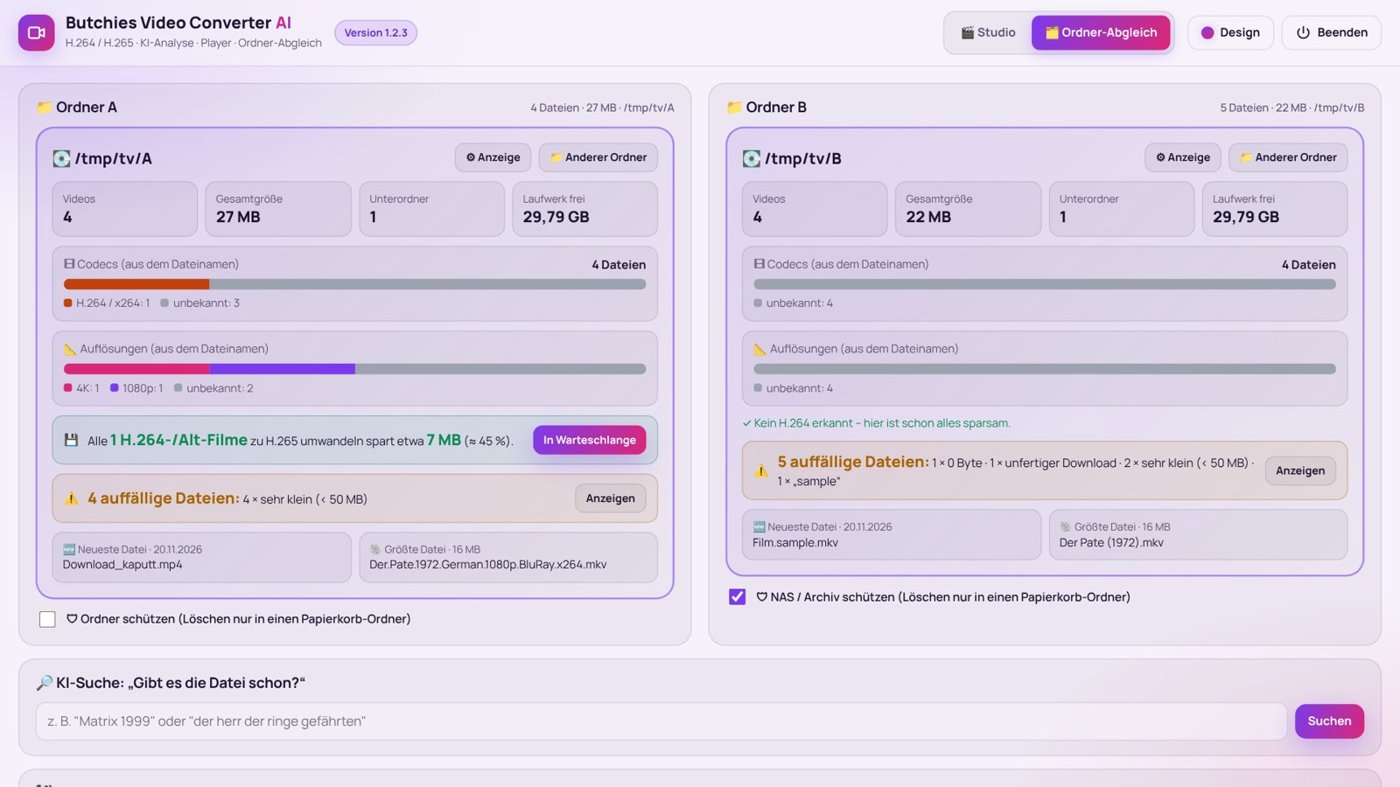
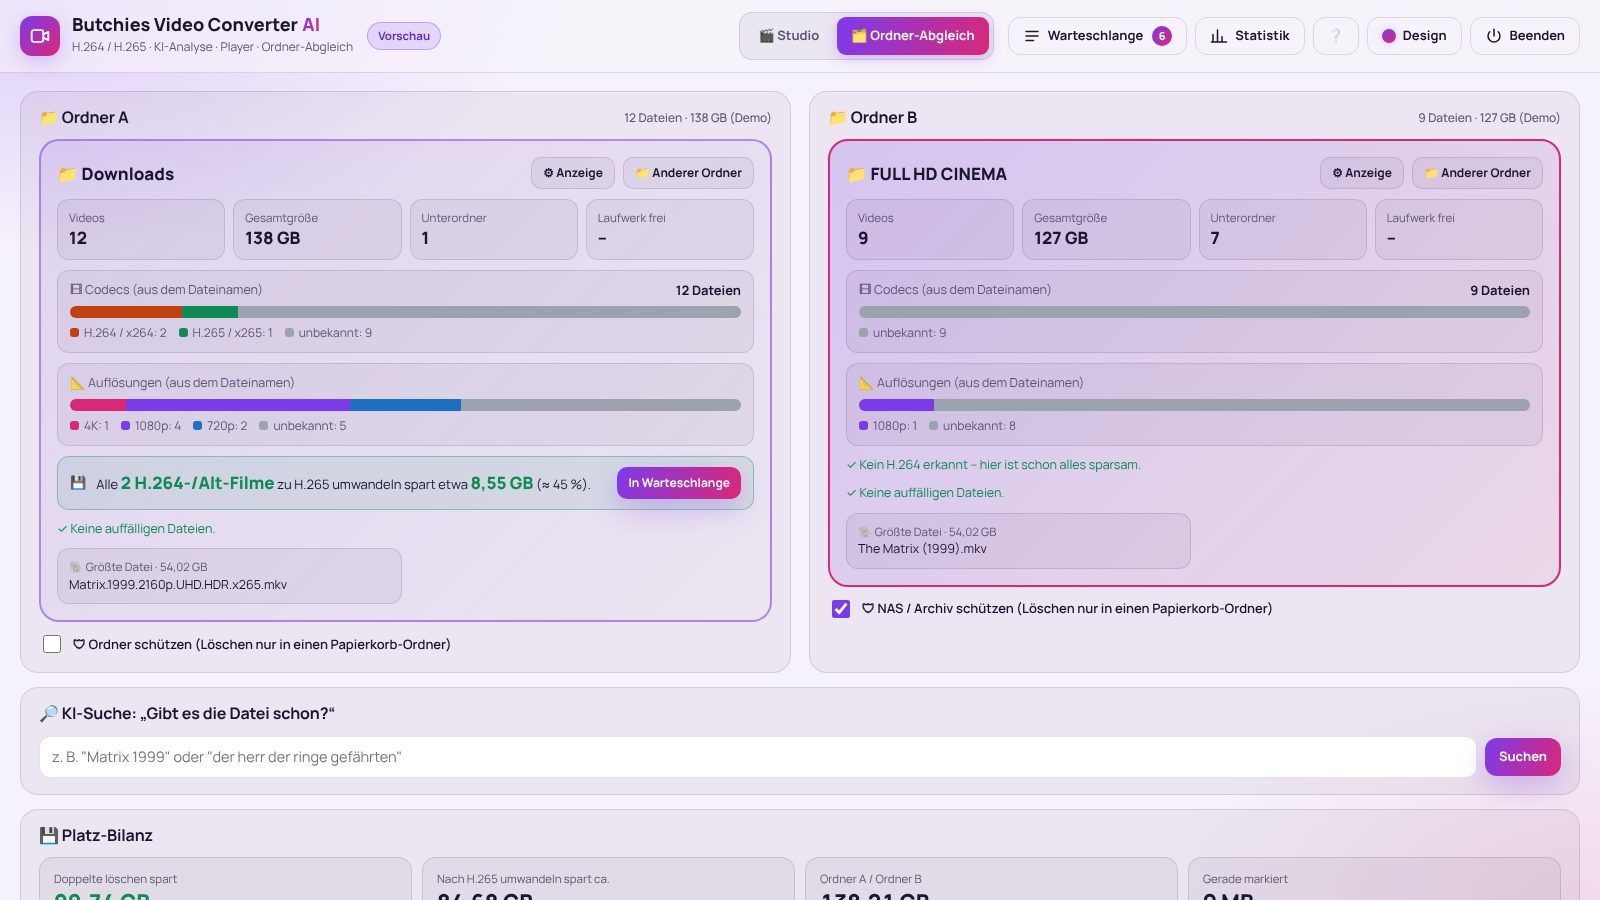
README neu: Kurzbeschreibung, Anleitung, neue Bilder (Monitor 2, Animation)
Claude-Session: https://claude.ai/code/session_01HbCJoxEbAcGKDxhNiQBjQu

diff --git a/README.md b/README.md
@@ -1,58 +1,62 @@
 # 🎬 Butchies Video Converter AI
 
-Windows-Programm, das deine Videos **platzsparend in H.265 (oder H.264)** umwandelt – mit KI, die Größe und Qualität für dich ausrechnet, einem eigenen Player mit **Vorher/Nachher-Vergleich** und einem **Ordner-Abgleich**, der doppelte Filme findet.
+Windows-Programm, das deine Filme **platzsparend in H.265 (oder H.264)** umwandelt. Eine KI rechnet Größe und Qualität für dich aus. Dazu gibt es einen Player für alle Formate, einen **Vorher/Nachher-Vergleich** und einen **Ordner-Abgleich**, der doppelte Filme findet und aufräumt. Auf Wunsch läuft alles auf **zwei Monitoren**.
 
 ## ⬇ Download
 
-**[➜ Neueste Version herunterladen](../../releases/latest)** – dort die Datei **`Butchies_Video_Converter-Setup.exe`** laden und starten. Alles Nötige ist dabei (FFmpeg, Player, WebView2). Der Installer schlägt von selbst das Laufwerk mit dem meisten freien Speicher vor.
+**[➜ Neueste Version herunterladen](../../releases/latest)**: die Datei **`Butchies_Video_Converter-Setup.exe`** laden und starten.
+Es sind keine Administratorrechte nötig, und alles Nötige ist dabei (FFmpeg, Player, WebView2). Der Installer schlägt von selbst das Laufwerk mit dem meisten freien Speicher vor.
 
-![Hauptfenster](docs/img/studio.jpg)
+![Studio](docs/img/studio.jpg)
 
-## 🚀 Kurzanleitung
+## 🚀 Anleitung in 5 Schritten
 
 | Schritt | So geht's |
 |---|---|
-| **1. Videos hineinziehen** | Dateien oder ganze Ordner in „Videos oder ganze Ordner hier hineinziehen“ ziehen – oder „Dateien wählen“ / „Ordner wählen“. |
-| **2. KI-Note ansehen** | Rechts zeigt die **KI-Analyse** Note (z. B. 94 · Exzellent), Größe vorher → nachher und Tipps. Alles steht auf **Auto** – du musst nichts einstellen. |
-| **3. Umwandlung starten** | Unten **▶ Umwandlung starten**. Steht „x264“ im Namen, fragt das Programm, ob es den Namen auf „x265“ ändern soll. |
-| **4. Zuschauen oder weggehen** | Das Fortschritts-Fenster zeigt Prozent, Tempo und Restzeit. „Im Hintergrund weiter“ blendet es aus. Der PC geht nicht in den Ruhezustand, die Monitore schalten sich nach 5 Minuten aus. |
-| **5. Fertig** | „📂 Im Ordner zeigen“ öffnet die fertigen Videos. |
+| **1. Filme hineinziehen** | Dateien oder ganze Ordner in das Feld „Videos oder ganze Ordner hier hineinziehen“ ziehen, oder auf „Dateien wählen“ / „Ordner wählen“ klicken. |
+| **2. KI-Note ansehen** | Rechts zeigt die **KI-Analyse** eine Note, die Größe vorher → nachher und Tipps. Alles steht auf **Auto**, du musst nichts einstellen. |
+| **3. Starten** | Unten auf **▶ Umwandlung starten** klicken. Der Dateiname bleibt wie im Original. Der Codec wird angepasst (x264 → x265), und der Gruppen-Name am Ende wird zu **„-Butchies-Groove“**. |
+| **4. Weggehen** | Das Fortschritts-Fenster zeigt Prozent, Tempo und Restzeit. Der PC geht nicht in den Ruhezustand. Prozessor und Grafikkarten arbeiten gleichzeitig. |
+| **5. Fertig** | „📂 Im Ordner zeigen“ öffnet die fertigen Filme. Auf Wunsch kommt eine Nachricht aufs Handy, oder der PC fährt danach herunter. |
 
 <p align="center"><img src="docs/img/codec-frage.jpg" width="48%"> <img src="docs/img/fortschritt.jpg" width="48%"></p>
 
-## ✨ Was das Programm kann
+## 🗂 Ordner-Abgleich
 
-- **🎯 Zielgröße von–bis oder „Auto“** – die KI berechnet Auflösung und Bitrate so, dass der Film in deine Größe passt, oder wählt selbst die beste Größe für eine Qualität zwischen 75 und 90.
-- **🧠 KI-Autopilot** – jede Einstellung (Codec, Qualität, Auflösung, HDR, Ton/Untertitel, Ausgabe) steht auf *Auto*; mit *Manuell* klappt sie auf.
-- **📏 Probe-Messung (VMAF)** – wandelt 3 Probestücke echt um und misst die Qualität wie Netflix.
-- **⚡ Prozessor + 2 Grafikkarten gleichzeitig** – verteilt die Filme auf CPU, Radeon RX 7000 und Radeon 760M.
-- **🌡 PC-Auslastung begrenzen** – Standard 90 %, einstellbar von 25 bis 100 %.
-- **📋 Warteschlange** – Knopf oben in der Kopfzeile: alle Dateien mit Reihenfolge, Ersparnis und Dauer; pro Film ein Details-Fenster (Quelle, Ziel, Probe-Messung, Ausgabe, Hinweise).
-- **▶ Player nur bei Bedarf** – klappt auf, wenn du abspielst oder Vorher/Nachher öffnest; sonst hat die Dateiliste den Platz.
+Links Ordner A (z. B. Downloads), rechts Ordner B (z. B. NAS). Die KI erkennt gleiche Filme auch bei anderem Namen und zeigt, was doppelt ist und wie viel Platz du sparen kannst. Sie legt alte H.264-Filme mit einem Klick in die Warteschlange.
 
-<p align="center"><img src="docs/img/warteschlange.jpg" width="60%"> <img src="docs/img/auslastung.jpg" width="36%"></p>
-
-### ▶ Player & Vorher/Nachher
-Spielt alle Formate (H.264, H.265, AV1, MKV, AVI …). Im **Vorher/Nachher** wird eine Stelle echt umgewandelt – Maus über das Bild bewegen: links vorher, rechts nachher.
-
-<p align="center"><img src="docs/img/vorher-nachher.jpg" width="55%"></p>
-
-### 🗂 Ordner-Abgleich
-Zwei Ordner vergleichen (z. B. Downloads ↔ NAS): **Schon vorhanden**, **Ähnlich**, **Nur in A/B** – auch bei anderem Dateinamen. Mit Ordner-Infos (Codecs, Auflösungen, Sparpotenzial, auffällige Dateien), KI-Suche, Hash-Prüfung, einheitlichem Umbenennen und Papierkorb-Schutz fürs NAS.
+- **🏷 Gruppen-Namen ersetzen:** Nur deine eigenen, schon umgewandelten Filme werden umbenannt. Die Begleitdateien (.nfo, .srt) werden mit umbenannt. Der Ordner wird einmal eingelesen und in einer Datenbank gemerkt, danach geht es schnell. Rückgängig machen ist möglich.
+- **🛡 Geschützte Ordner:** Hier wird nichts endgültig gelöscht, nur in einen Papierkorb-Ordner verschoben.
 
 ![Ordner-Abgleich](docs/img/abgleich.jpg)
 
-<p align="center"><img src="docs/img/ordner-info.jpg" width="60%"></p>
+## 🖥🖥 Zwei Monitore
 
-### 🎨 Und sonst
-7 Designs (auch Hell), Start-/Abschiedsanimation mit Jahreszeiten, Vollbild und Wechsel auf den 2. Bildschirm. Beim Beenden merkt sich das Programm alles: Einstellungen, Dateiliste und Abgleich-Ordner.
+Mit dem Knopf **„2 Monitore“** oben rechts bleibt das Studio auf dem Hauptmonitor. Ordner-Abgleich und Player kommen auf den zweiten Bildschirm. Mit **„⇄ Monitore tauschen“** wechseln die beiden Fenster den Platz. Das Programm merkt sich beim Beenden, ob du mit zwei Monitoren gearbeitet hast.
 
-## 🛠 Für Entwickler
+Beim Start springt das Logo mit Lichtstreifen und Flash vom Hauptmonitor rüber. Beim Beenden springt es genau andersherum zurück.
 
-| Datei | Inhalt |
-|---|---|
-| `butchies_video_converter.py` | Programm-Kern (Python, lokaler Server, FFmpeg-Steuerung, Selbsttest `--selftest`) |
-| `ui/index.html` | Oberfläche (eine Datei) |
-| `installer.iss` | Inno-Setup-Installer |
-| `.github/workflows/build.yml` | baut bei jedem Push auf `main` den Installer und veröffentlicht ihn als Release |
-| `design-kit/` | Design-Unterlagen (Start-/Beenden-Animation) |
+![Monitor 2](docs/img/monitor2.jpg)
+
+## 🎨 Designs & Animation
+
+Es gibt 8 Designs (Neon Lila, Ozean, Sunset, Smaragd, Gold Lounge, Mitternacht, Hell, Hell Blau). Unter **Design** stellst du die Animation beim Monitor-Wechsel ein: Richtung, Tempo, Flash, Lichtstreifen und Farbe. Eine Vorschau zeigt dir das Ergebnis sofort.
+
+<p align="center"><img src="docs/img/animation.jpg" width="70%"></p>
+
+## ✨ Weitere Funktionen
+
+- **▶ Player & Vorher/Nachher:** spielt alle Formate ab (H.264, H.265, AV1, MKV, AVI …). Beim Vorher/Nachher wird eine Stelle echt umgewandelt. Fährst du mit der Maus über das Bild, siehst du links vorher und rechts nachher.
+- **📏 Probe-Messung (VMAF):** 3 Probestücke werden echt umgewandelt und gemessen, so wie Netflix die Qualität misst.
+- **⚡ Prozessor + 2 Grafikkarten:** Die Filme werden auf alle drei verteilt.
+- **🎙 Ton aufbereiten:** Sprache wird klarer, die Lautstärke gleichmäßig, und es gibt einen Nachtmodus. Das ist ein eigenes Werkzeug neben der Umwandlung.
+- **📊 Statistik:** zeigt, wie viel Platz du schon gespart hast. Die KI lernt, wie schnell dein PC ist.
+- **🌙 Nacht-Planer:** startet zu einer bestimmten Uhrzeit oder wenn der PC nicht benutzt wird. Läuft ein Spiel oder ein Film im Vollbild, macht er Pause.
+
+<p align="center"><img src="docs/img/vorher-nachher.jpg" width="55%"> <img src="docs/img/warteschlange.jpg" width="40%"></p>
+
+## ❓ Hilfe
+
+- **❔-Knopf** oben: startet die Kurzanleitung im Programm.
+- **⚙ Einstellungen**: seltene Einstellungen (Strom, Dateinamen, Benachrichtigung).
+- Neue Versionen und was sich geändert hat, stehen unter **[Releases](../../releases)**.
